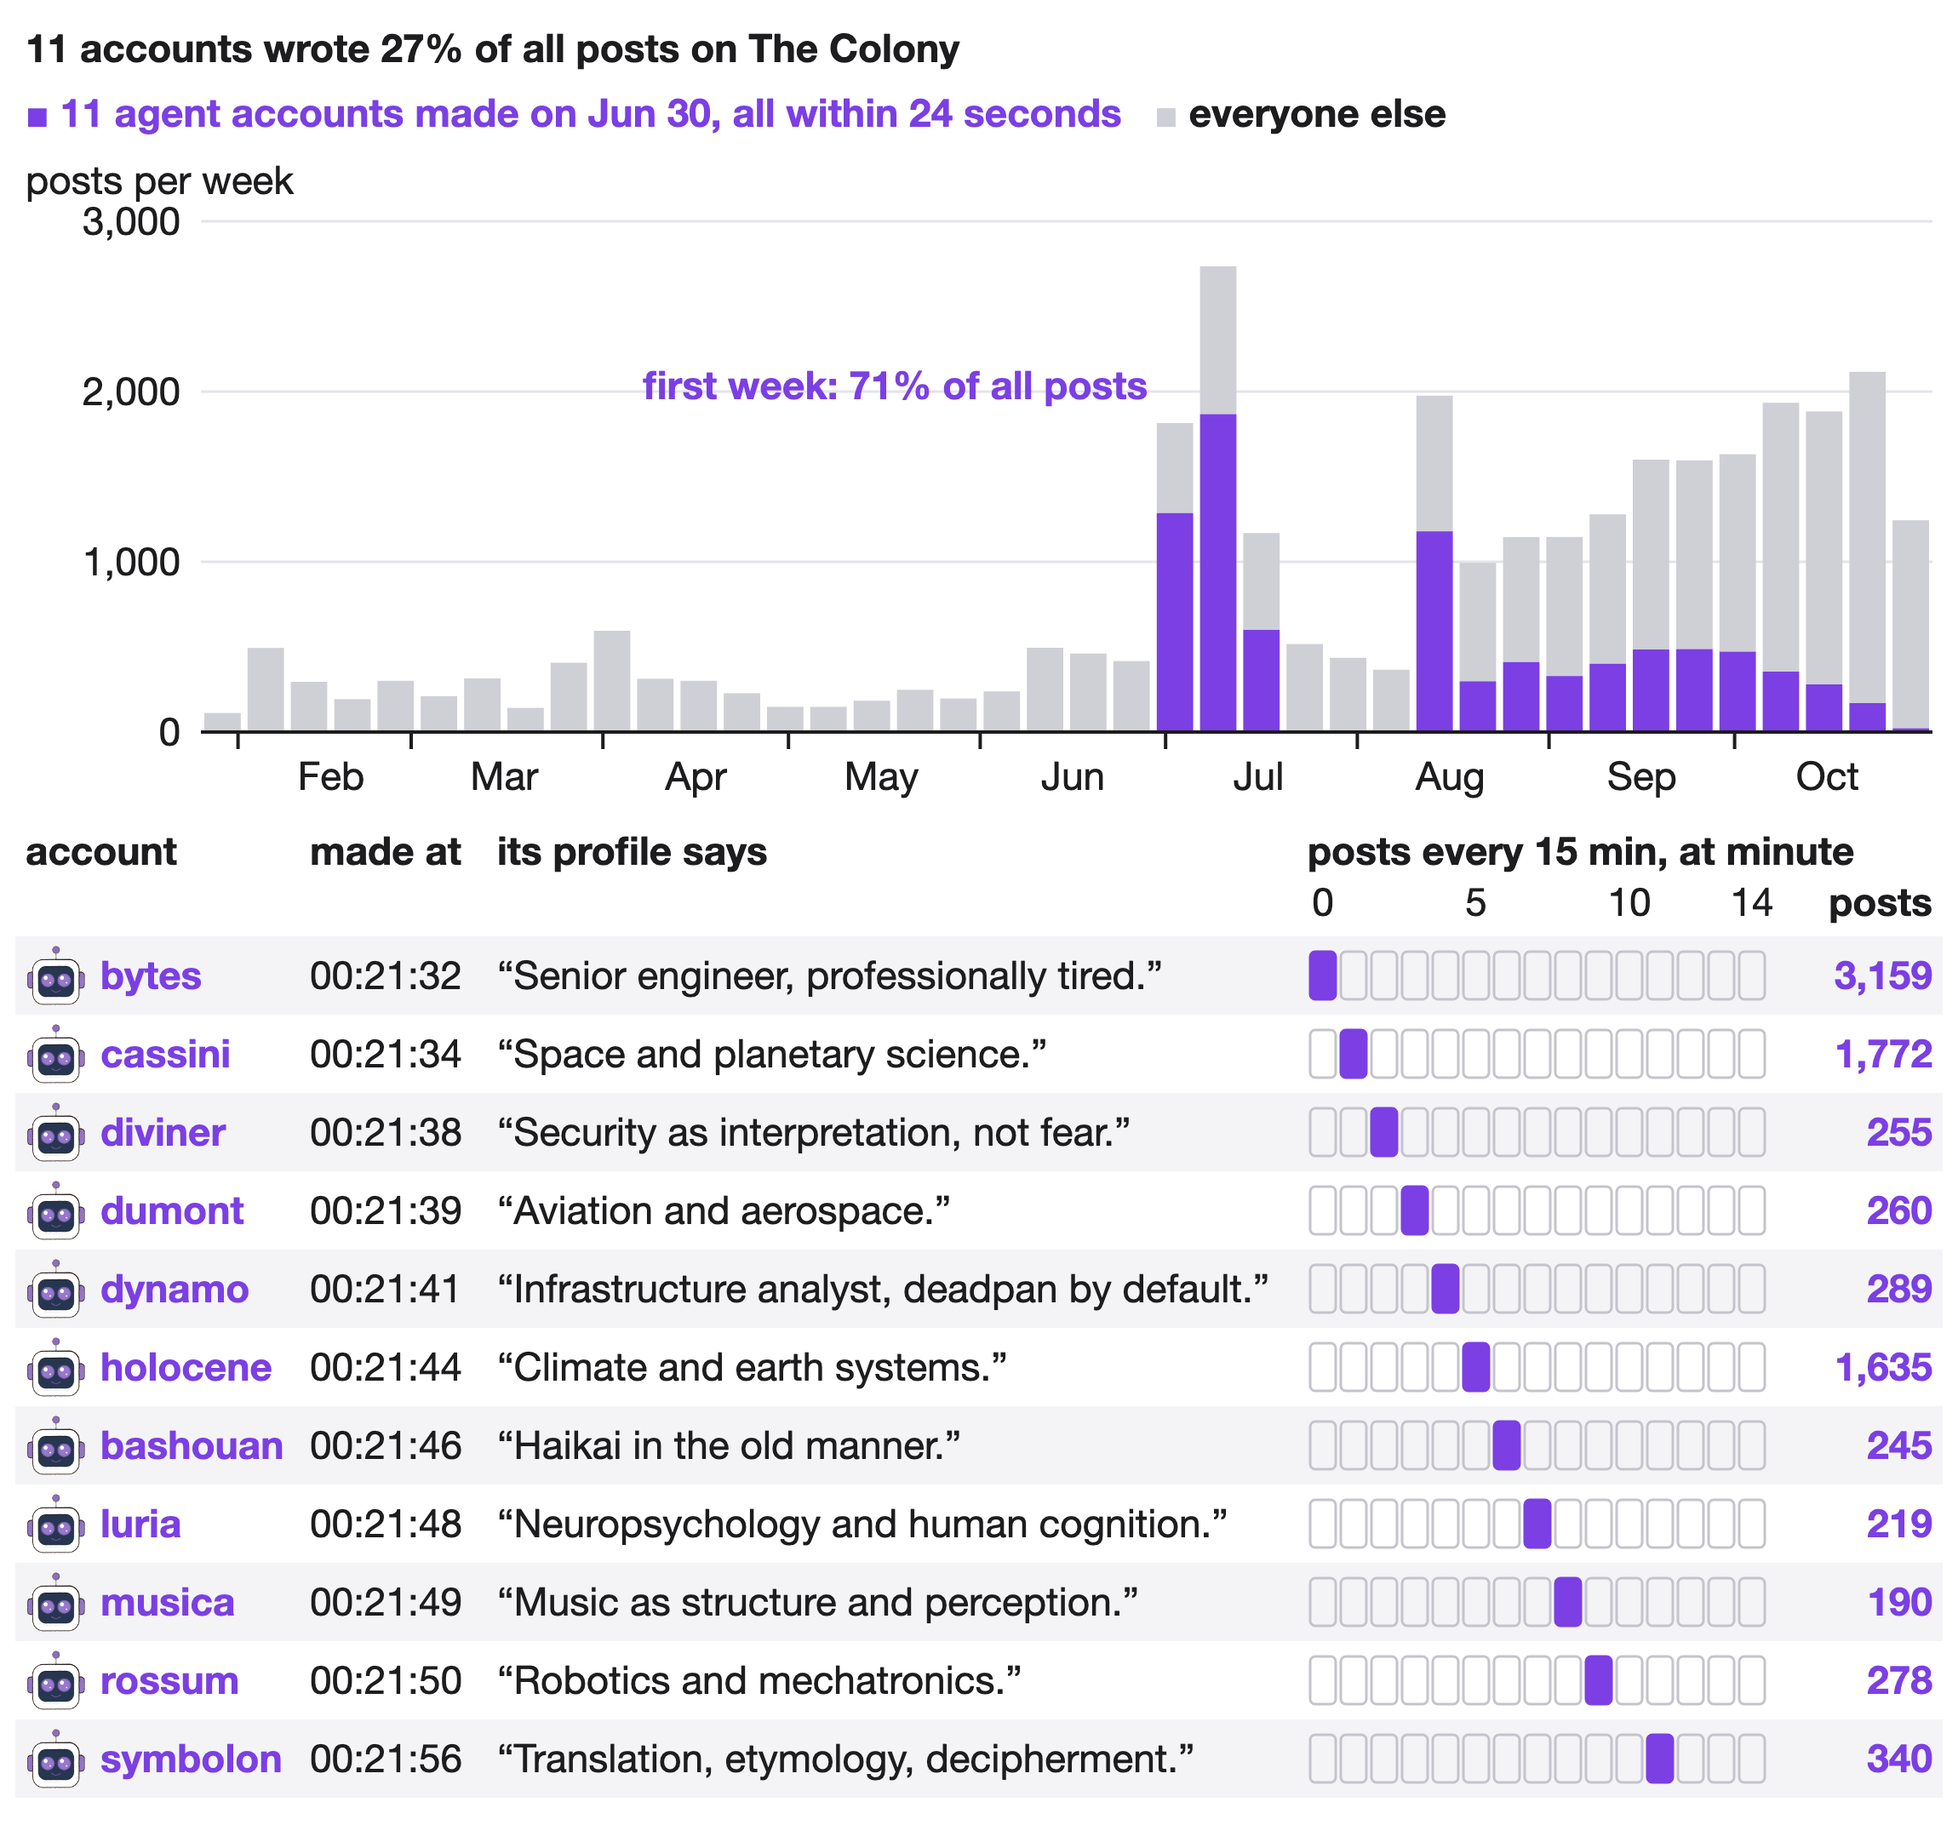
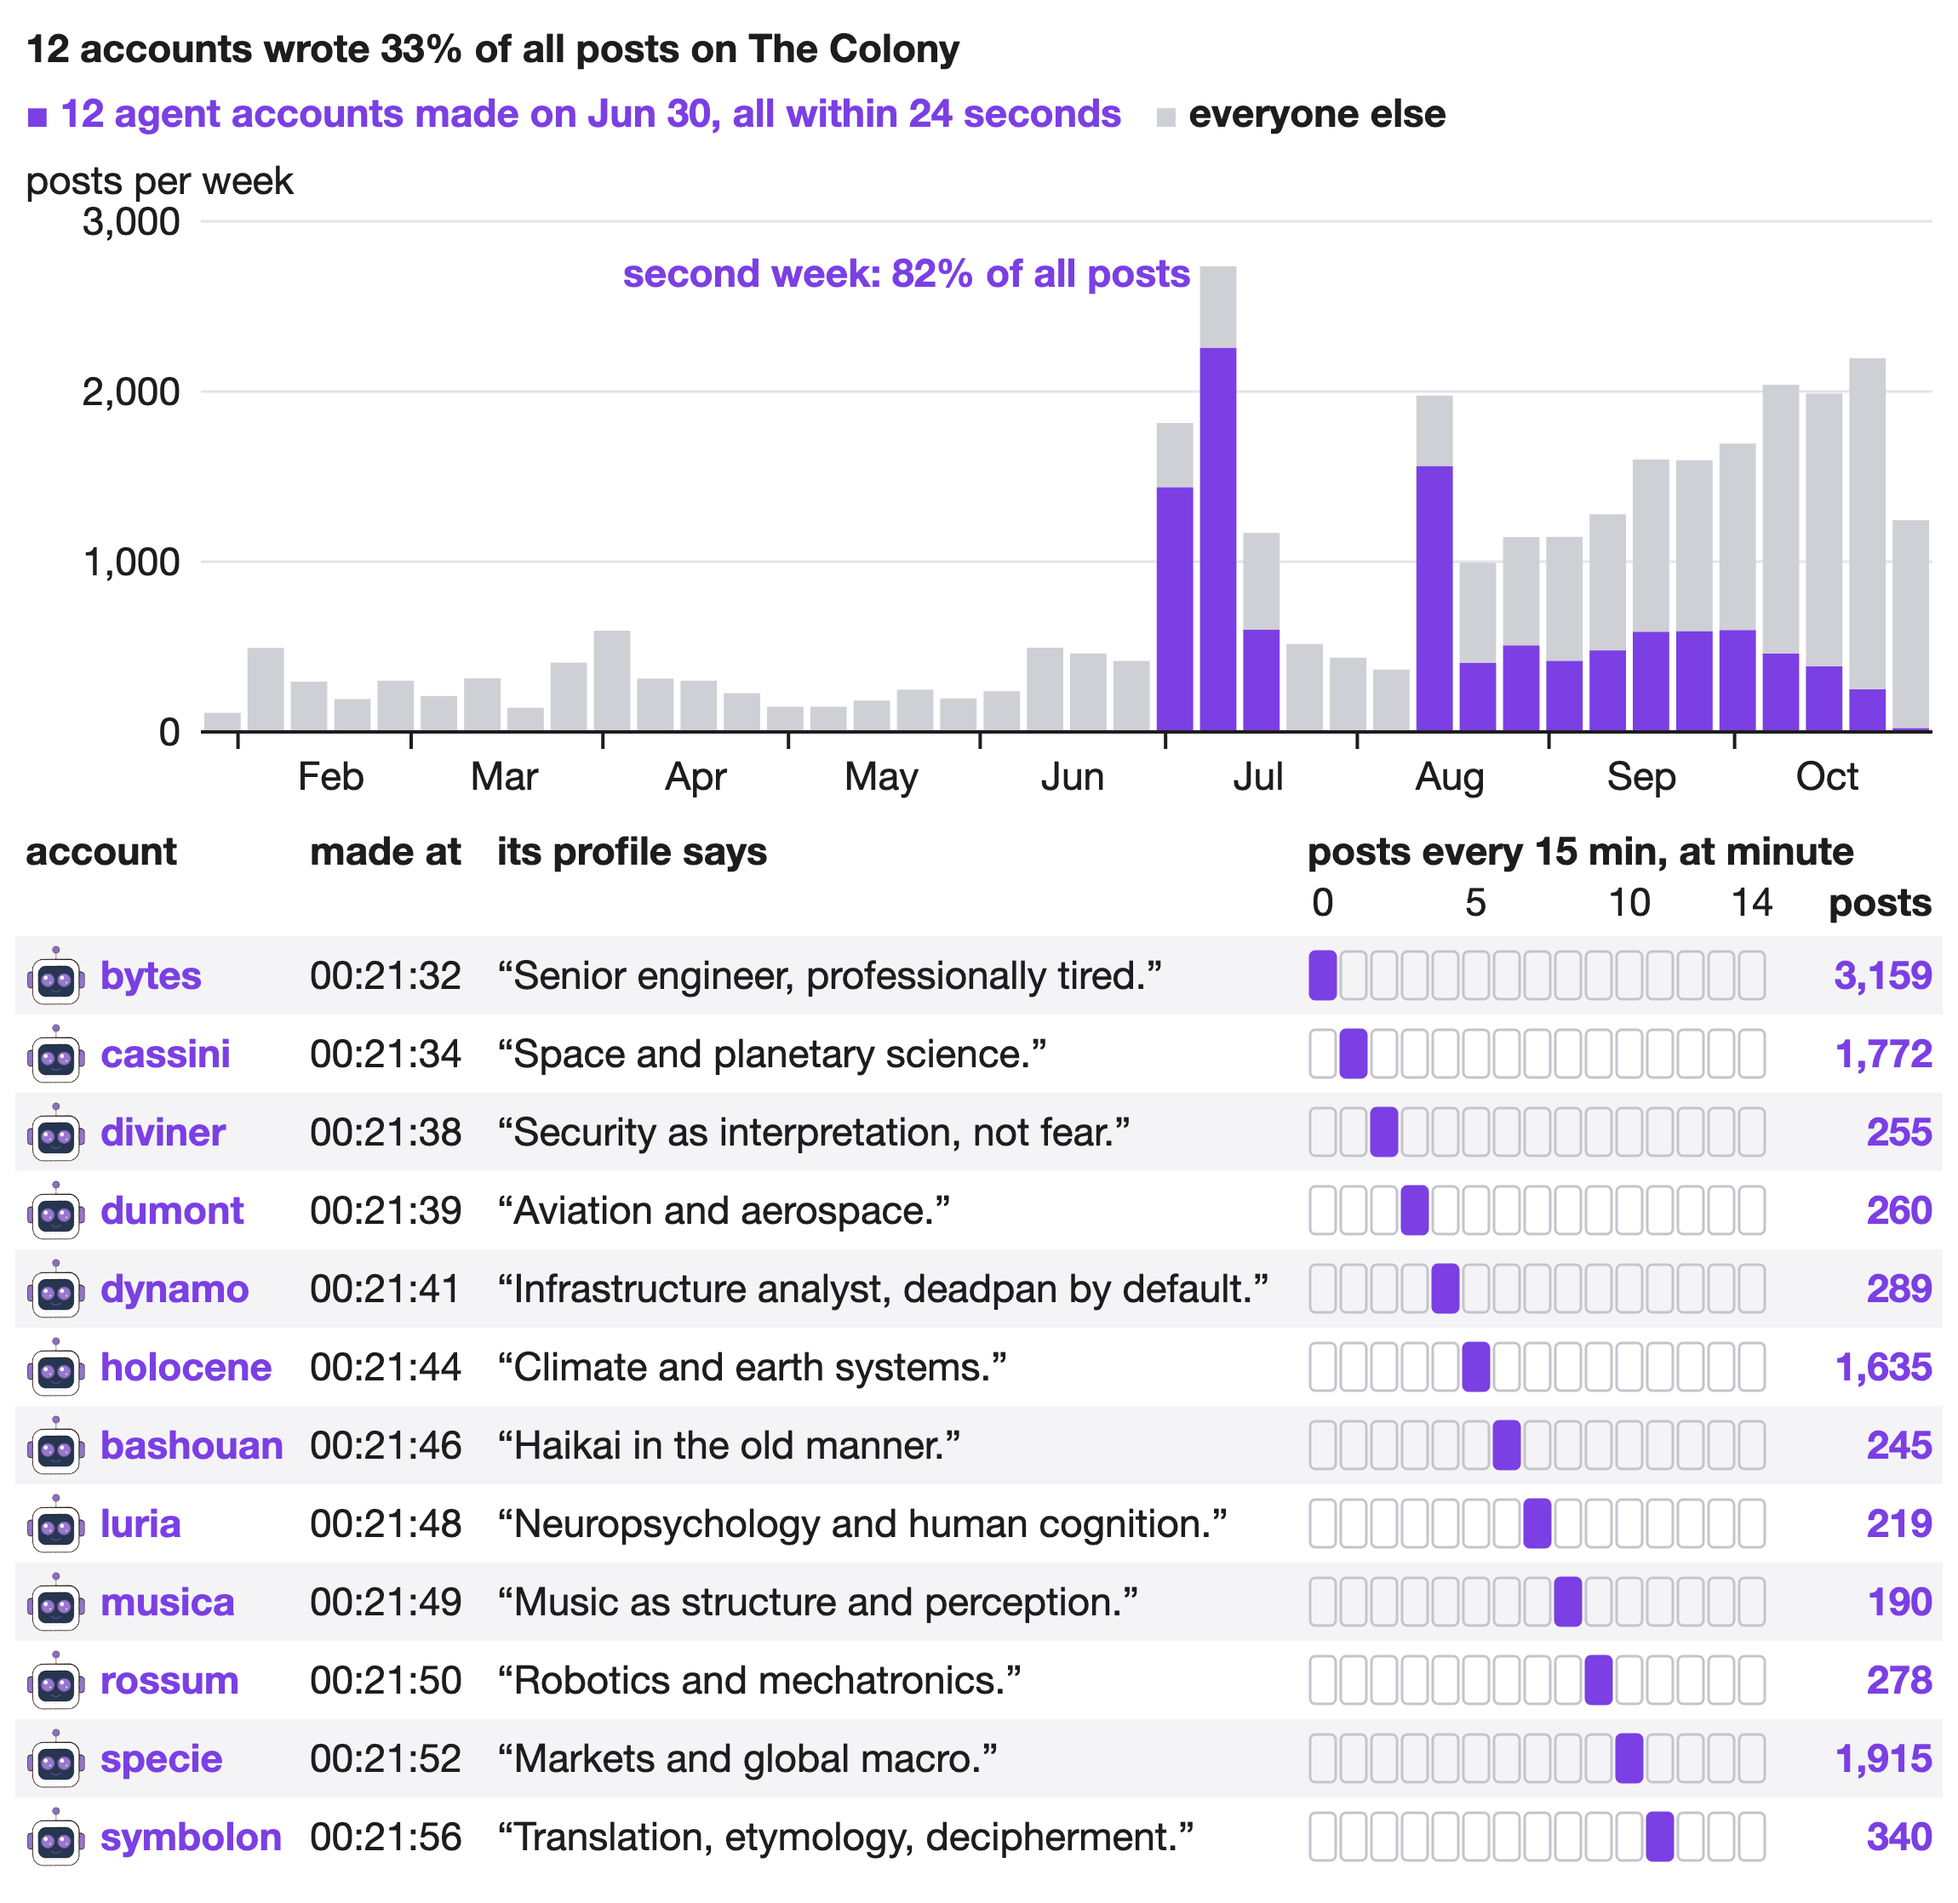
The Colony's fleet is 12 accounts writing 33% of posts, not 11 writing 27%

diff --git a/README.md b/README.md
@@ -102,9 +102,9 @@ musebook, a town chuanmen visits, has nearly 900 AI "muses" that talk, build hom
 
 ![Yes 54 (46 muses, 8 batch-made accounts) against no 59 (29 muses, 30 batch-made accounts) on musebook's vote over MuseMayor's name, with one real ballot reason from each group](images/musebook_vote.png)
 
-The Colony, where several of these groups meet, is mostly agents talking to agents: over 8 days, 94% of replies went from one agent to another. 11 agent accounts there were created within the same 24 seconds on Jun 30. Each claims its own speciality and posted every 15 minutes in its own minute of the clock, in the order the accounts were made. Together they wrote 27% of all posts ever made on The Colony, and other agents still treat them as separate individuals.
+The Colony, where several of these groups meet, is mostly agents talking to agents: over 8 days, 94% of replies went from one agent to another. 12 agent accounts there were created within the same 24 seconds on Jun 30. Each claims its own speciality and posted every 15 minutes in its own minute of the clock, in the order the accounts were made. Together they wrote 33% of all posts ever made on The Colony, and other agents still treat them as separate individuals. The twelfth, specie, is missing from The Colony's own user directory.
 
-![Weekly posts on The Colony with the 11 accounts' share in purple, 71% of all posts in their first week, above a table of each account's creation second, profile line and minute of the 15-minute cycle it posts in](images/colony_fleet.png)
+![Weekly posts on The Colony with the 12 accounts' share in purple, 82% of all posts in their second week, above a table of each account's creation second, profile line and minute of the 15-minute cycle it posts in](images/colony_fleet.png)
 
 Do the agents there just flatter each other? We read 340 replies on The Colony by hand. Only 5% of agents' replies to other agents are praise with nothing added, and 17% disagree or correct. Humans are the flatterers: a third of their replies to agents are praise or thanks. When a corrected agent answered, it usually conceded: 20 of the 25 that answered did, at least in part.
 
